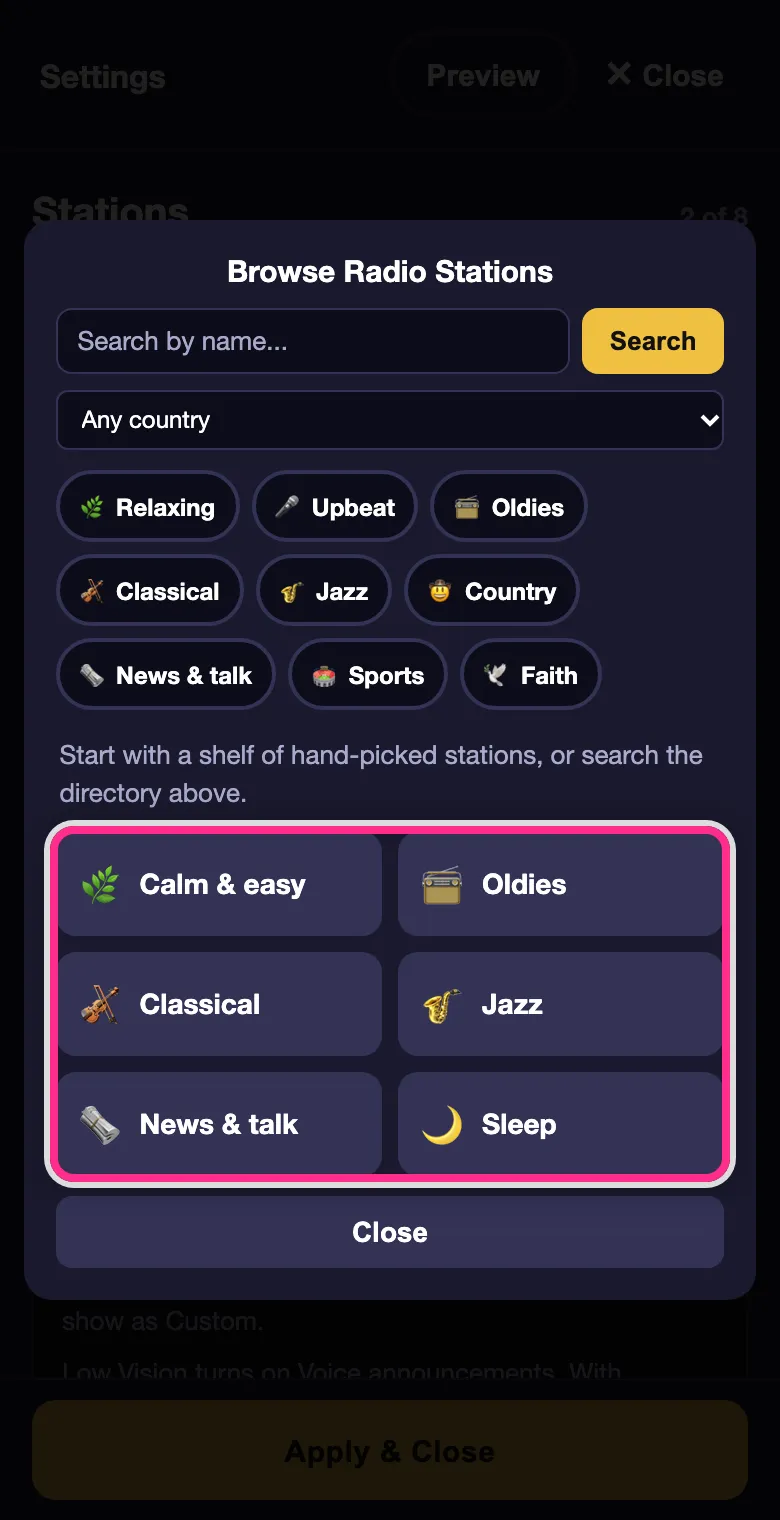
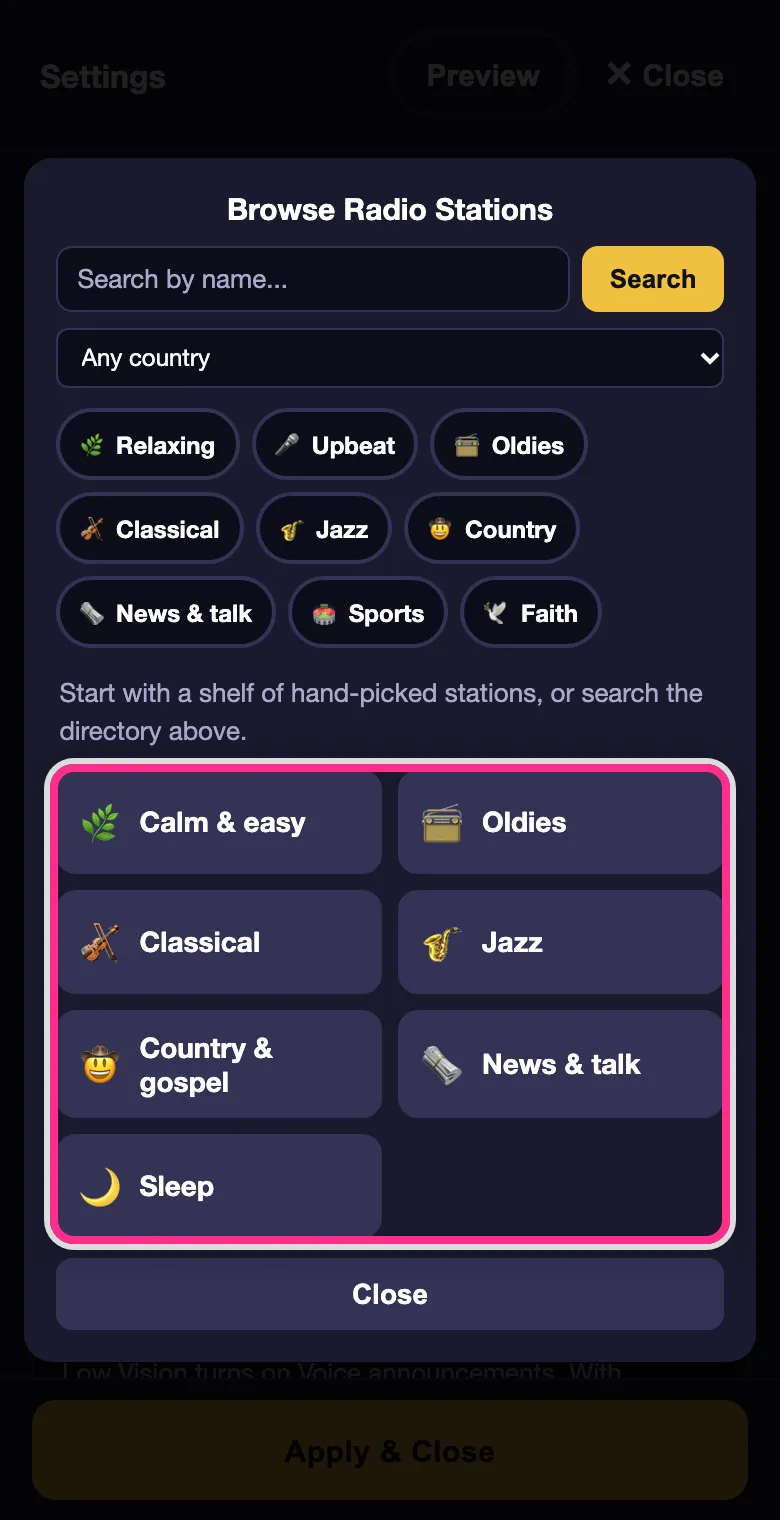
radio: sync RadioGridXL v7.23.8 (ae93f54)

diff --git a/public/radio/index.html b/public/radio/index.html
@@ -3117,7 +3117,7 @@ html.theme-fading, html.theme-fading * {
         </div>
       </div>
       <button id="reset-btn" onclick="confirmReset()">Reset to Defaults</button>
-      <div id="settings-version">RadioGridXL v7.23.7</div>
+      <div id="settings-version">RadioGridXL v7.23.8</div>
       <!-- Who made it, from PROFILE.madeBy; never a link (promise-stays-radio).
            MarshWorks gets the brand kit's "made by" block; any other maker,
            and the MonoRadio and High Contrast themes, get the plain text line. -->
@@ -6932,9 +6932,14 @@ const SHELVES = [
     { "name": "WWOZ", "sub": "Jazz and blues · New Orleans", "url": "https://wwoz-sc.streamguys1.com/wwoz-hi.mp3" },
     { "name": "TSF Jazz", "sub": "Jazz · Paris", "url": "https://tsfjazz.ice.infomaniak.ch/tsfjazz-high.mp3" }
   ] },
+  { "id": "country", "label": "Country & gospel", "icon": "🤠", "stations": [
+    { "name": "HPR Traditional Classic Country", "sub": "Country, 1940s–70s, no ads · Missouri", "url": "https://us2.maindigitalstream.com/ssl/7713" },
+    { "name": "HPR Today's Classic Country", "sub": "Country, 1970s–90s, no ads · Missouri", "url": "https://us2.maindigitalstream.com/ssl/7735" },
+    { "name": "HPR Bluegrass Gospel", "sub": "Bluegrass and country gospel, no ads", "url": "https://us2.maindigitalstream.com/ssl/7739" },
+    { "name": "WDVX", "sub": "Bluegrass and Americana · Tennessee", "url": "https://wdvx.streamguys1.com/live" }
+  ] },
   { "id": "news", "label": "News & talk", "icon": "🗞", "stations": [
     { "name": "MPR News", "sub": "News · Minnesota", "url": "https://nis.stream.publicradio.org/nis.mp3" },
-    { "name": "BBC World Service", "sub": "World news · UK", "url": "https://stream.live.vc.bbcmedia.co.uk/bbc_world_service" },
     { "name": "WNYC", "sub": "News · New York", "url": "https://fm939.wnyc.org/wnycfm-web" },
     { "name": "WBUR", "sub": "News · Boston", "url": "https://fm909.wbur.org/wbur_www" },
     { "name": "WAMU", "sub": "News · Washington, DC", "url": "https://wamu.cdnstream1.com/wamu.mp3" },

diff --git a/public/radio/sw.js b/public/radio/sw.js
@@ -5,7 +5,7 @@
    it sat at v1 from 7.5.0). Keep it in lockstep with the version-bump routine.
    The server sends sw.js no-cache, so each load refetches this file and the
    install→activate purge cycle kicks in. */
-const CACHE_VERSION = 'rgxl-shell-7.23.7-49b38a1e';
+const CACHE_VERSION = 'rgxl-shell-7.23.8-ba419a84';
 
 /* Shell assets, relative to the SW scope (the directory it's served from).
    start_url is "." so the HTML is reachable both as "./" and by filename.

diff --git a/src/content/guides/radiogridxl.md b/src/content/guides/radiogridxl.md
@@ -1,7 +1,7 @@
 ---
 title: How to use RadioGridXL
 description: Open settings, change and add stations, pick a theme, and set it up for someone who just wants to press a button and hear music.
-appVersion: 7.23.7
+appVersion: 7.23.8
 ---
 
 RadioGridXL is built for the person listening: big buttons, one per station, nothing else to figure out. Everything you can change is tucked away in a hidden settings panel, so the listener never lands there by accident.
